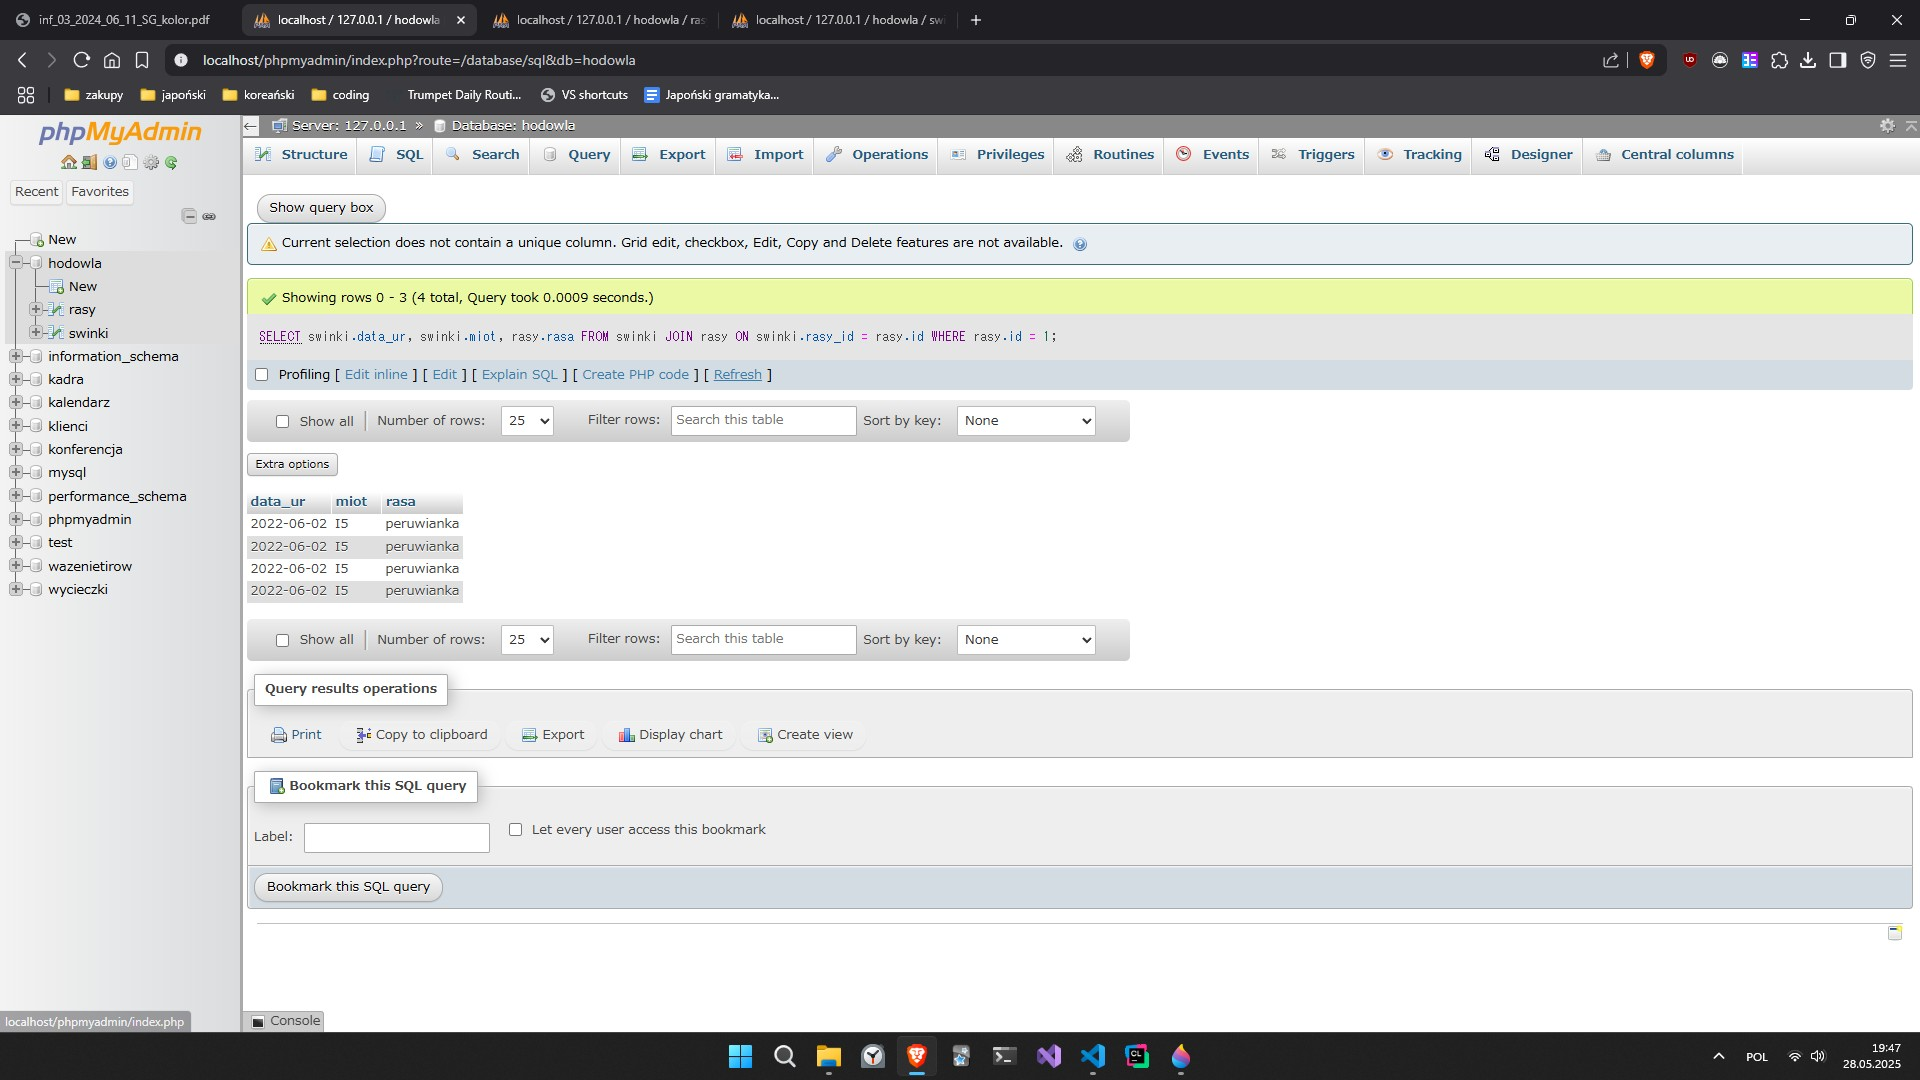
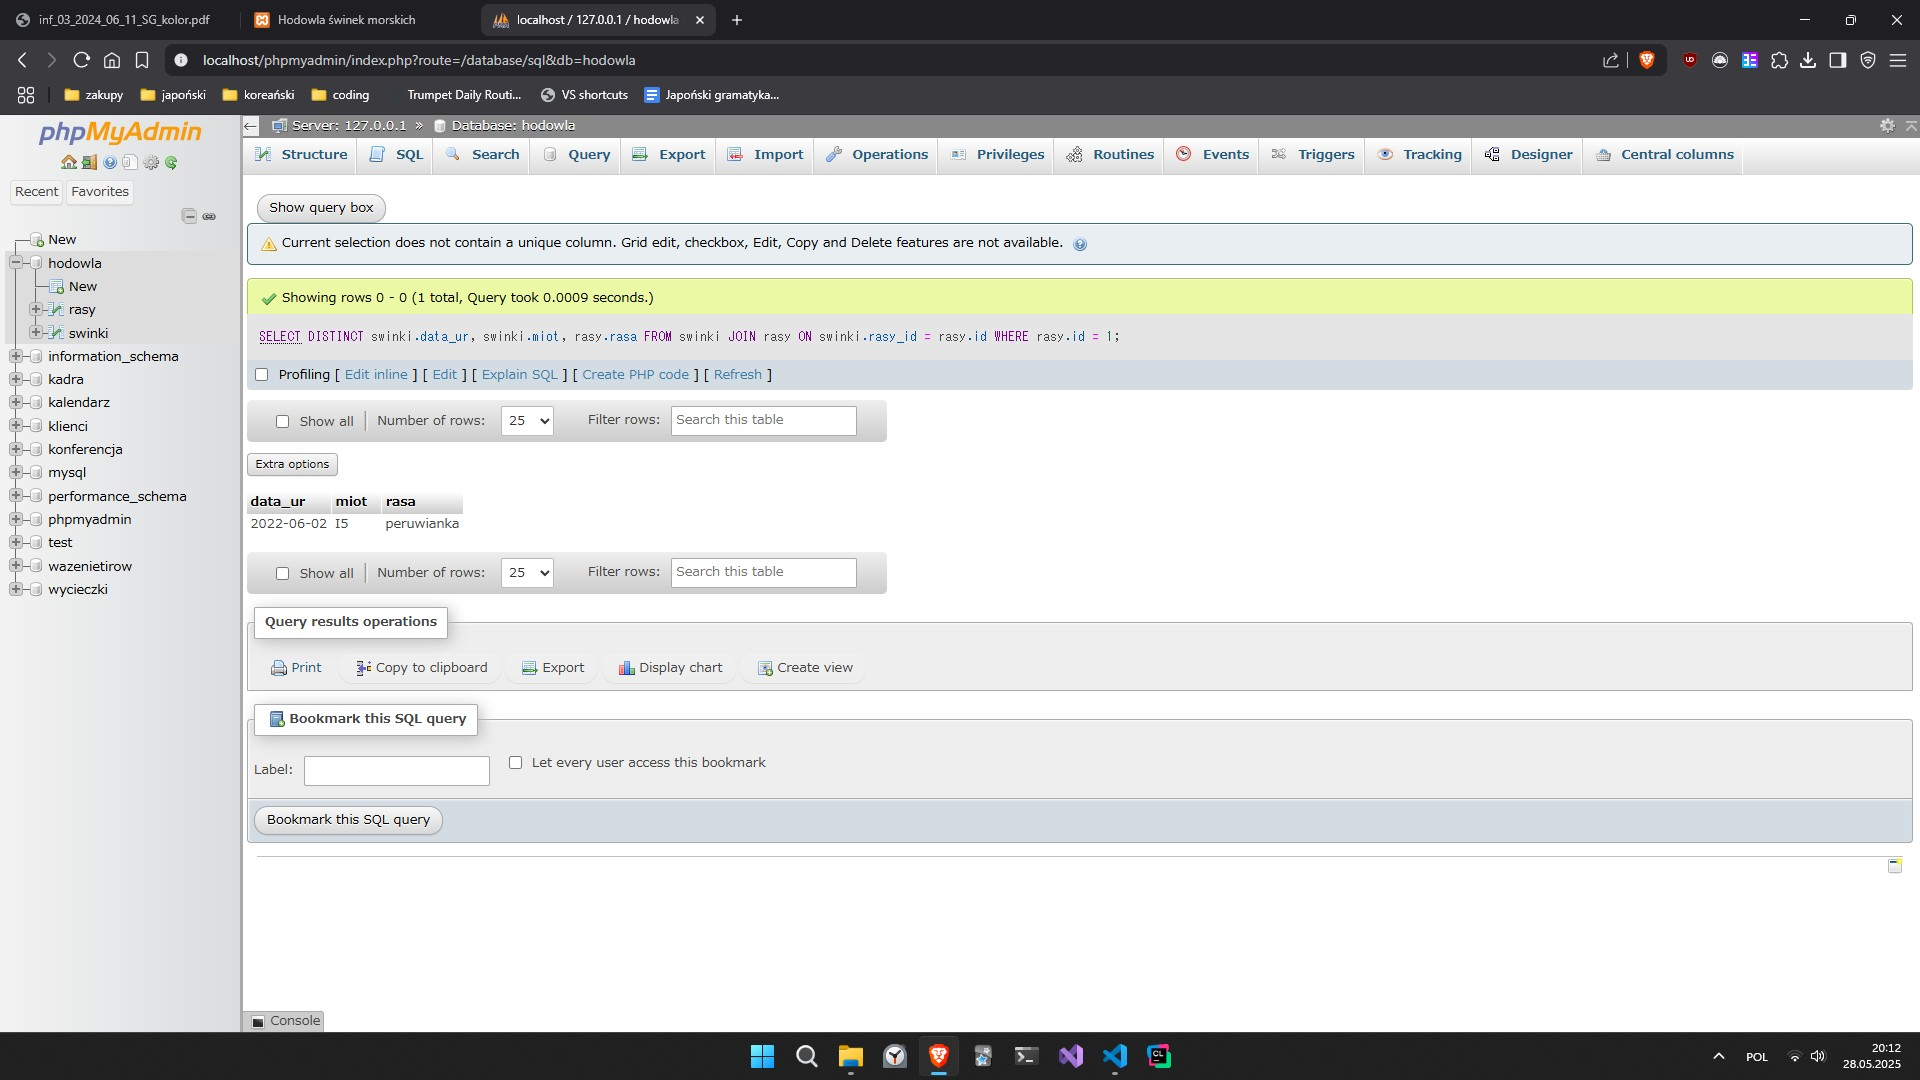
Wykonanie skryptu w PHP

diff --git a/czerwiec2024/11/american.php b/czerwiec2024/11/american.php
@@ -1,3 +1,27 @@
+<?php
+
+$conn = mysqli_connect('localhost', 'root', '', 'hodowla');
+
+$zapytanie1 = "SELECT rasy.rasa
+        FROM rasy";
+$rasy = mysqli_query($conn, $zapytanie1);
+
+$zapytanie2 = "SELECT DISTINCT swinki.data_ur, swinki.miot, rasy.rasa
+            FROM swinki
+            JOIN rasy ON swinki.rasy_id = rasy.id
+            WHERE rasy.id = 6";
+$glowna_swinka = mysqli_fetch_row(mysqli_query($conn, $zapytanie2));
+
+$zapytanie3 = "SELECT swinki.imie, swinki.cena, swinki.opis
+            FROM swinki
+            JOIN rasy ON swinki.rasy_id = rasy.id
+            WHERE rasy.id = 6";
+$swinki = mysqli_query($conn, $zapytanie3);
+
+mysqli_close($conn);
+
+?>
+
 <!DOCTYPE html>
 <html lang="pl">
 <head>
@@ -22,18 +46,27 @@
             </nav>
             
             <main>
-                <img src="peruwianka.jpg" alt="Świnka morska rasy peruwianka">
+                <img src="american.jpg" alt="Świnka morska rasy peruwianka">
+                <h2>Rasa: <?= $glowna_swinka[2] ?></h2>
+                <p>Data urodzenia: <?= $glowna_swinka[0] ?></p>
+                <p>Oznaczenie miotu: <?= $glowna_swinka[1] ?></p>
 
                 <hr>
                 <h2>Świnki w tym miocie</h2>
 
+                <?php while ($swinka = mysqli_fetch_row($swinki)): ?>
+                    <h3><?= $swinka[0] ?> - <?= $swinka[1] ?> zł</h3>
+                    <p><?= $swinka[2] ?></p>
+                <?php endwhile; ?>
             </main>
         </article>
 
         <article>
             <h3>Poznaj wszystkie rasy świnek morskich</h3>
             <ol>
-
+                <?php while ($rasa = mysqli_fetch_row($rasy)): ?>
+                    <li><?= $rasa[0] ?></li>
+                <?php endwhile; ?>
             </ol>
         </article>
     </section>

diff --git a/czerwiec2024/11/crested.php b/czerwiec2024/11/crested.php
@@ -1,3 +1,27 @@
+<?php
+
+$conn = mysqli_connect('localhost', 'root', '', 'hodowla');
+
+$zapytanie1 = "SELECT rasy.rasa
+        FROM rasy";
+$rasy = mysqli_query($conn, $zapytanie1);
+
+$zapytanie2 = "SELECT DISTINCT swinki.data_ur, swinki.miot, rasy.rasa
+            FROM swinki
+            JOIN rasy ON swinki.rasy_id = rasy.id
+            WHERE rasy.id = 7";
+$glowna_swinka = mysqli_fetch_row(mysqli_query($conn, $zapytanie2));
+
+$zapytanie3 = "SELECT swinki.imie, swinki.cena, swinki.opis
+            FROM swinki
+            JOIN rasy ON swinki.rasy_id = rasy.id
+            WHERE rasy.id = 7";
+$swinki = mysqli_query($conn, $zapytanie3);
+
+mysqli_close($conn);
+
+?>
+
 <!DOCTYPE html>
 <html lang="pl">
 <head>
@@ -22,18 +46,27 @@
             </nav>
             
             <main>
-                <img src="peruwianka.jpg" alt="Świnka morska rasy peruwianka">
+                <img src="crested.jpg" alt="Świnka morska rasy peruwianka">
+                <h2>Rasa: <?= $glowna_swinka[2] ?></h2>
+                <p>Data urodzenia: <?= $glowna_swinka[0] ?></p>
+                <p>Oznaczenie miotu: <?= $glowna_swinka[1] ?></p>
 
                 <hr>
                 <h2>Świnki w tym miocie</h2>
 
+                <?php while ($swinka = mysqli_fetch_row($swinki)): ?>
+                    <h3><?= $swinka[0] ?> - <?= $swinka[1] ?> zł</h3>
+                    <p><?= $swinka[2] ?></p>
+                <?php endwhile; ?>
             </main>
         </article>
 
         <article>
             <h3>Poznaj wszystkie rasy świnek morskich</h3>
             <ol>
-
+                <?php while ($rasa = mysqli_fetch_row($rasy)): ?>
+                    <li><?= $rasa[0] ?></li>
+                <?php endwhile; ?>
             </ol>
         </article>
     </section>

diff --git a/czerwiec2024/11/peruwianka.php b/czerwiec2024/11/peruwianka.php
@@ -1,3 +1,27 @@
+<?php
+
+$conn = mysqli_connect('localhost', 'root', '', 'hodowla');
+
+$zapytanie1 = "SELECT rasy.rasa
+        FROM rasy";
+$rasy = mysqli_query($conn, $zapytanie1);
+
+$zapytanie2 = "SELECT DISTINCT swinki.data_ur, swinki.miot, rasy.rasa
+            FROM swinki
+            JOIN rasy ON swinki.rasy_id = rasy.id
+            WHERE rasy.id = 1";
+$glowna_swinka = mysqli_fetch_row(mysqli_query($conn, $zapytanie2));
+
+$zapytanie3 = "SELECT swinki.imie, swinki.cena, swinki.opis
+            FROM swinki
+            JOIN rasy ON swinki.rasy_id = rasy.id
+            WHERE rasy.id = 1";
+$swinki = mysqli_query($conn, $zapytanie3);
+
+mysqli_close($conn);
+
+?>
+
 <!DOCTYPE html>
 <html lang="pl">
 <head>
@@ -23,17 +47,26 @@
             
             <main>
                 <img src="peruwianka.jpg" alt="Świnka morska rasy peruwianka">
+                <h2>Rasa: <?= $glowna_swinka[2] ?></h2>
+                <p>Data urodzenia: <?= $glowna_swinka[0] ?></p>
+                <p>Oznaczenie miotu: <?= $glowna_swinka[1] ?></p>
 
                 <hr>
                 <h2>Świnki w tym miocie</h2>
 
+                <?php while ($swinka = mysqli_fetch_row($swinki)): ?>
+                    <h3><?= $swinka[0] ?> - <?= $swinka[1] ?> zł</h3>
+                    <p><?= $swinka[2] ?></p>
+                <?php endwhile; ?>
             </main>
         </article>
 
         <article>
             <h3>Poznaj wszystkie rasy świnek morskich</h3>
             <ol>
-
+                <?php while ($rasa = mysqli_fetch_row($rasy)): ?>
+                    <li><?= $rasa[0] ?></li>
+                <?php endwhile; ?>
             </ol>
         </article>
     </section>
